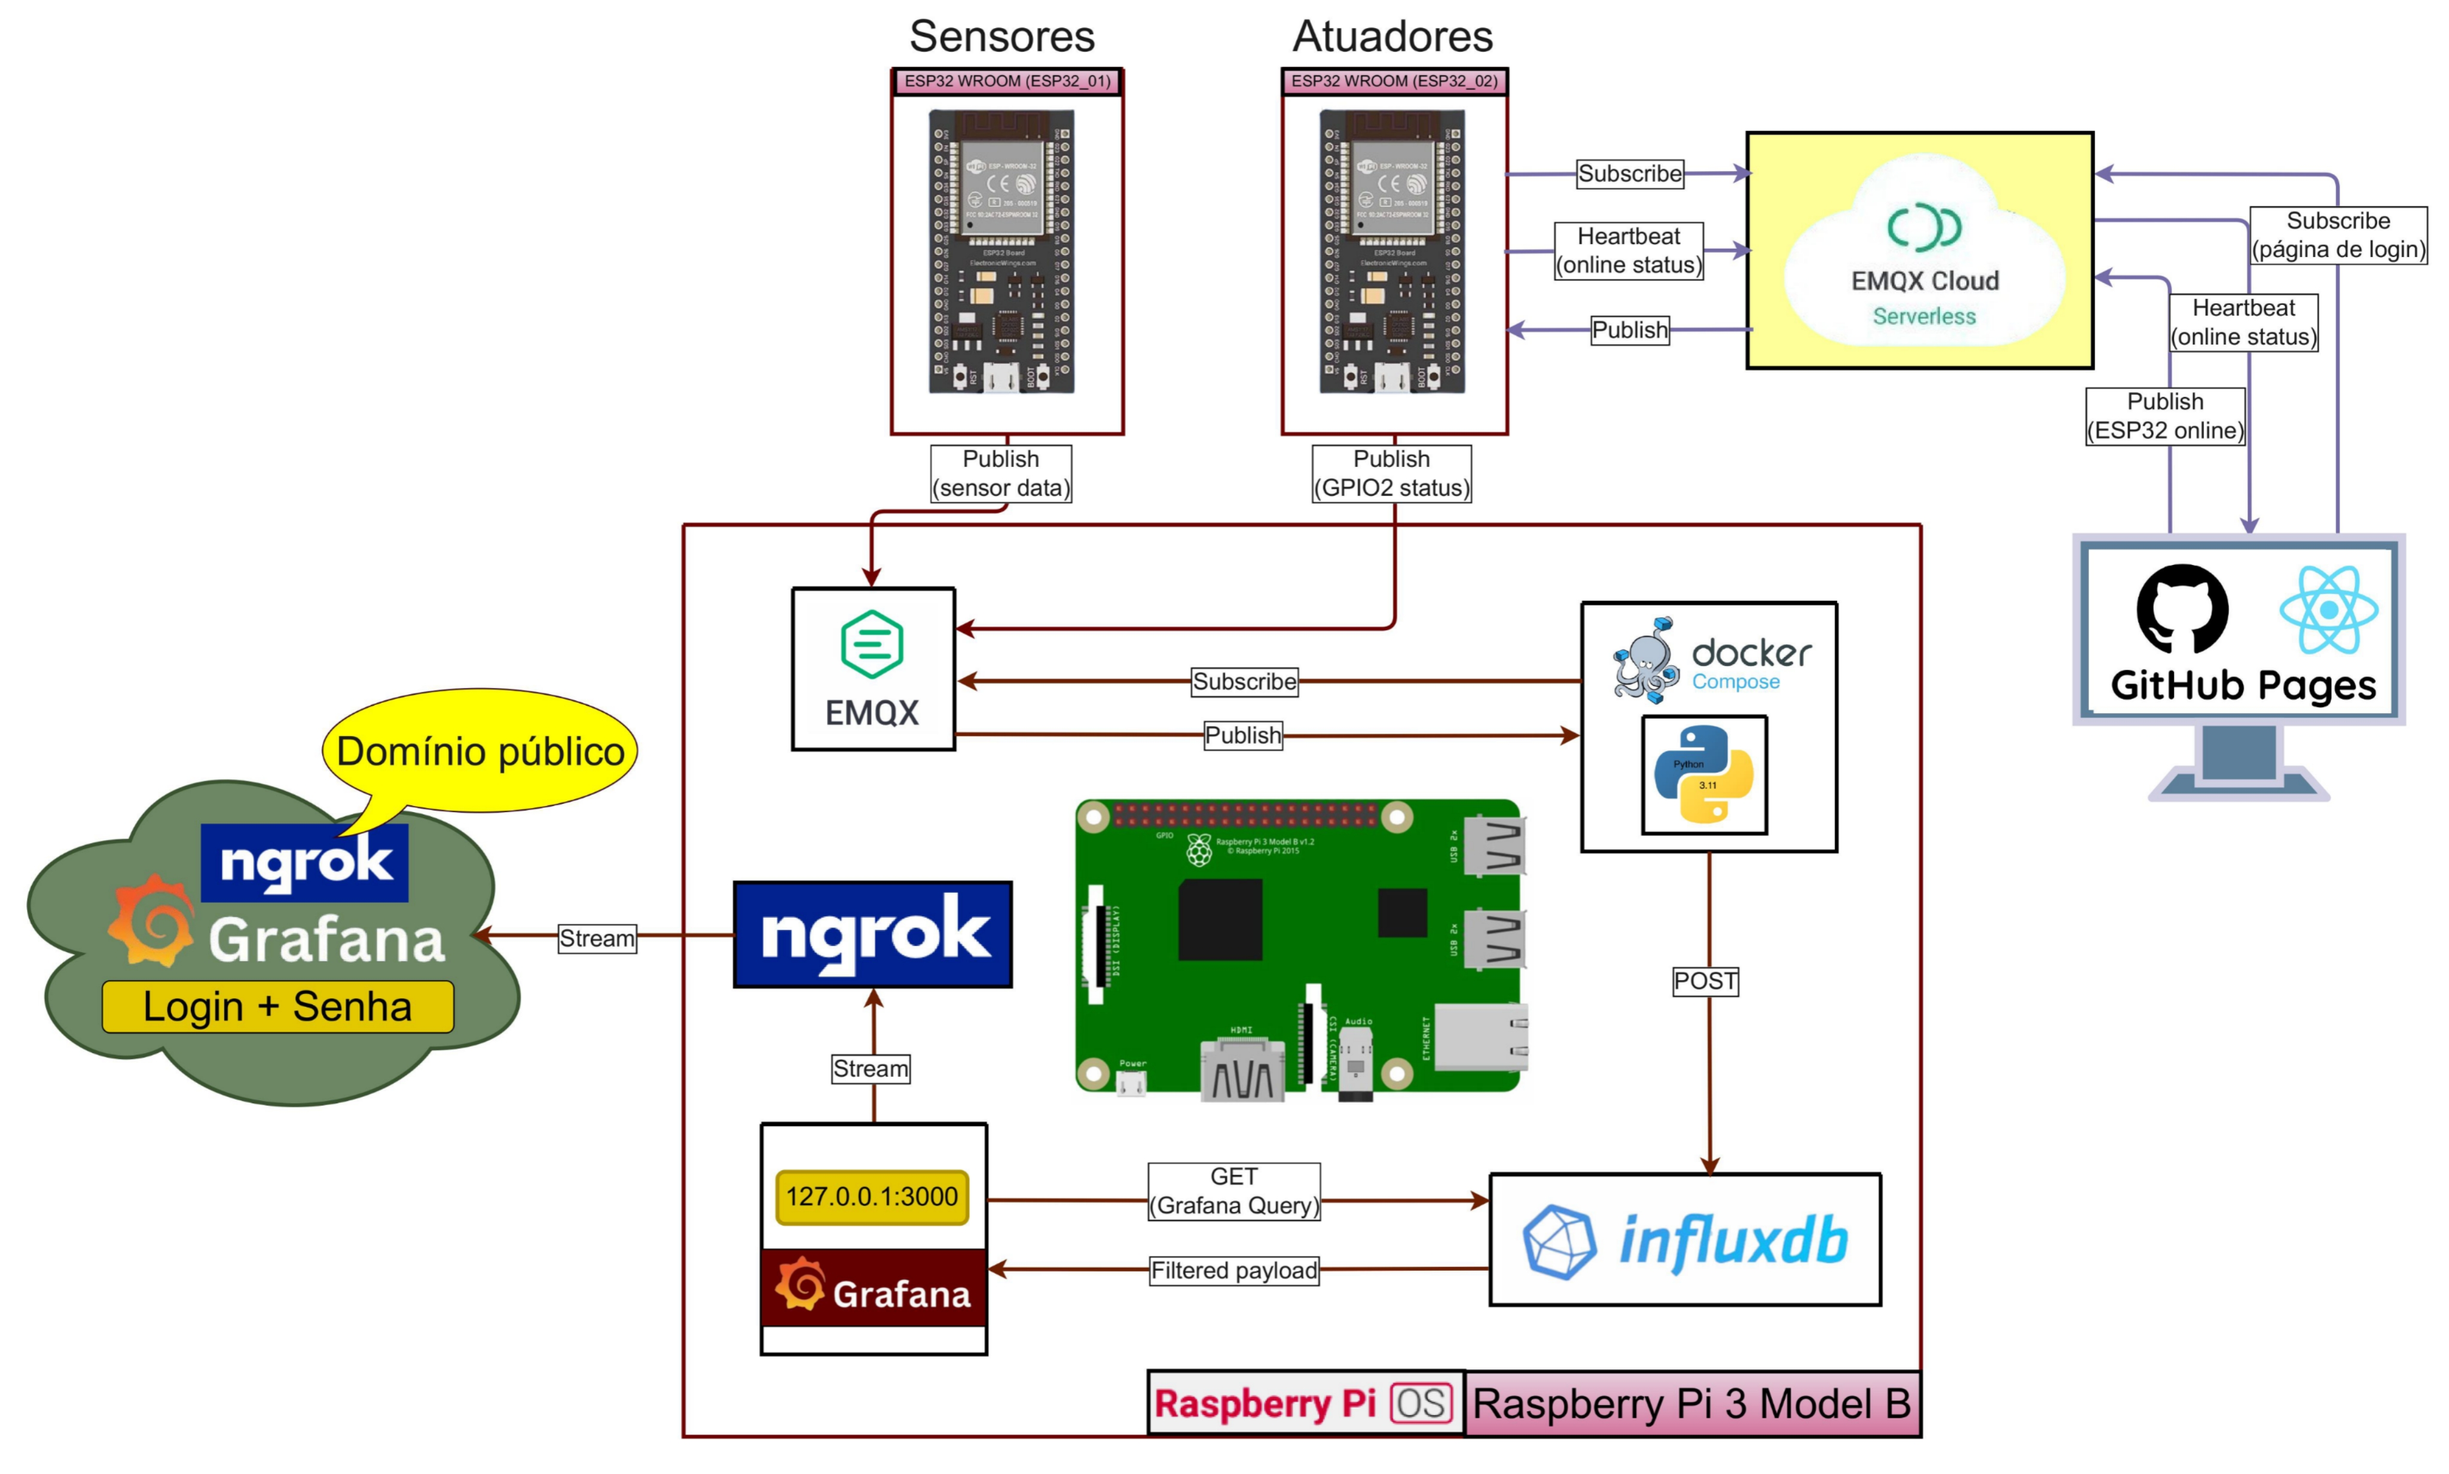
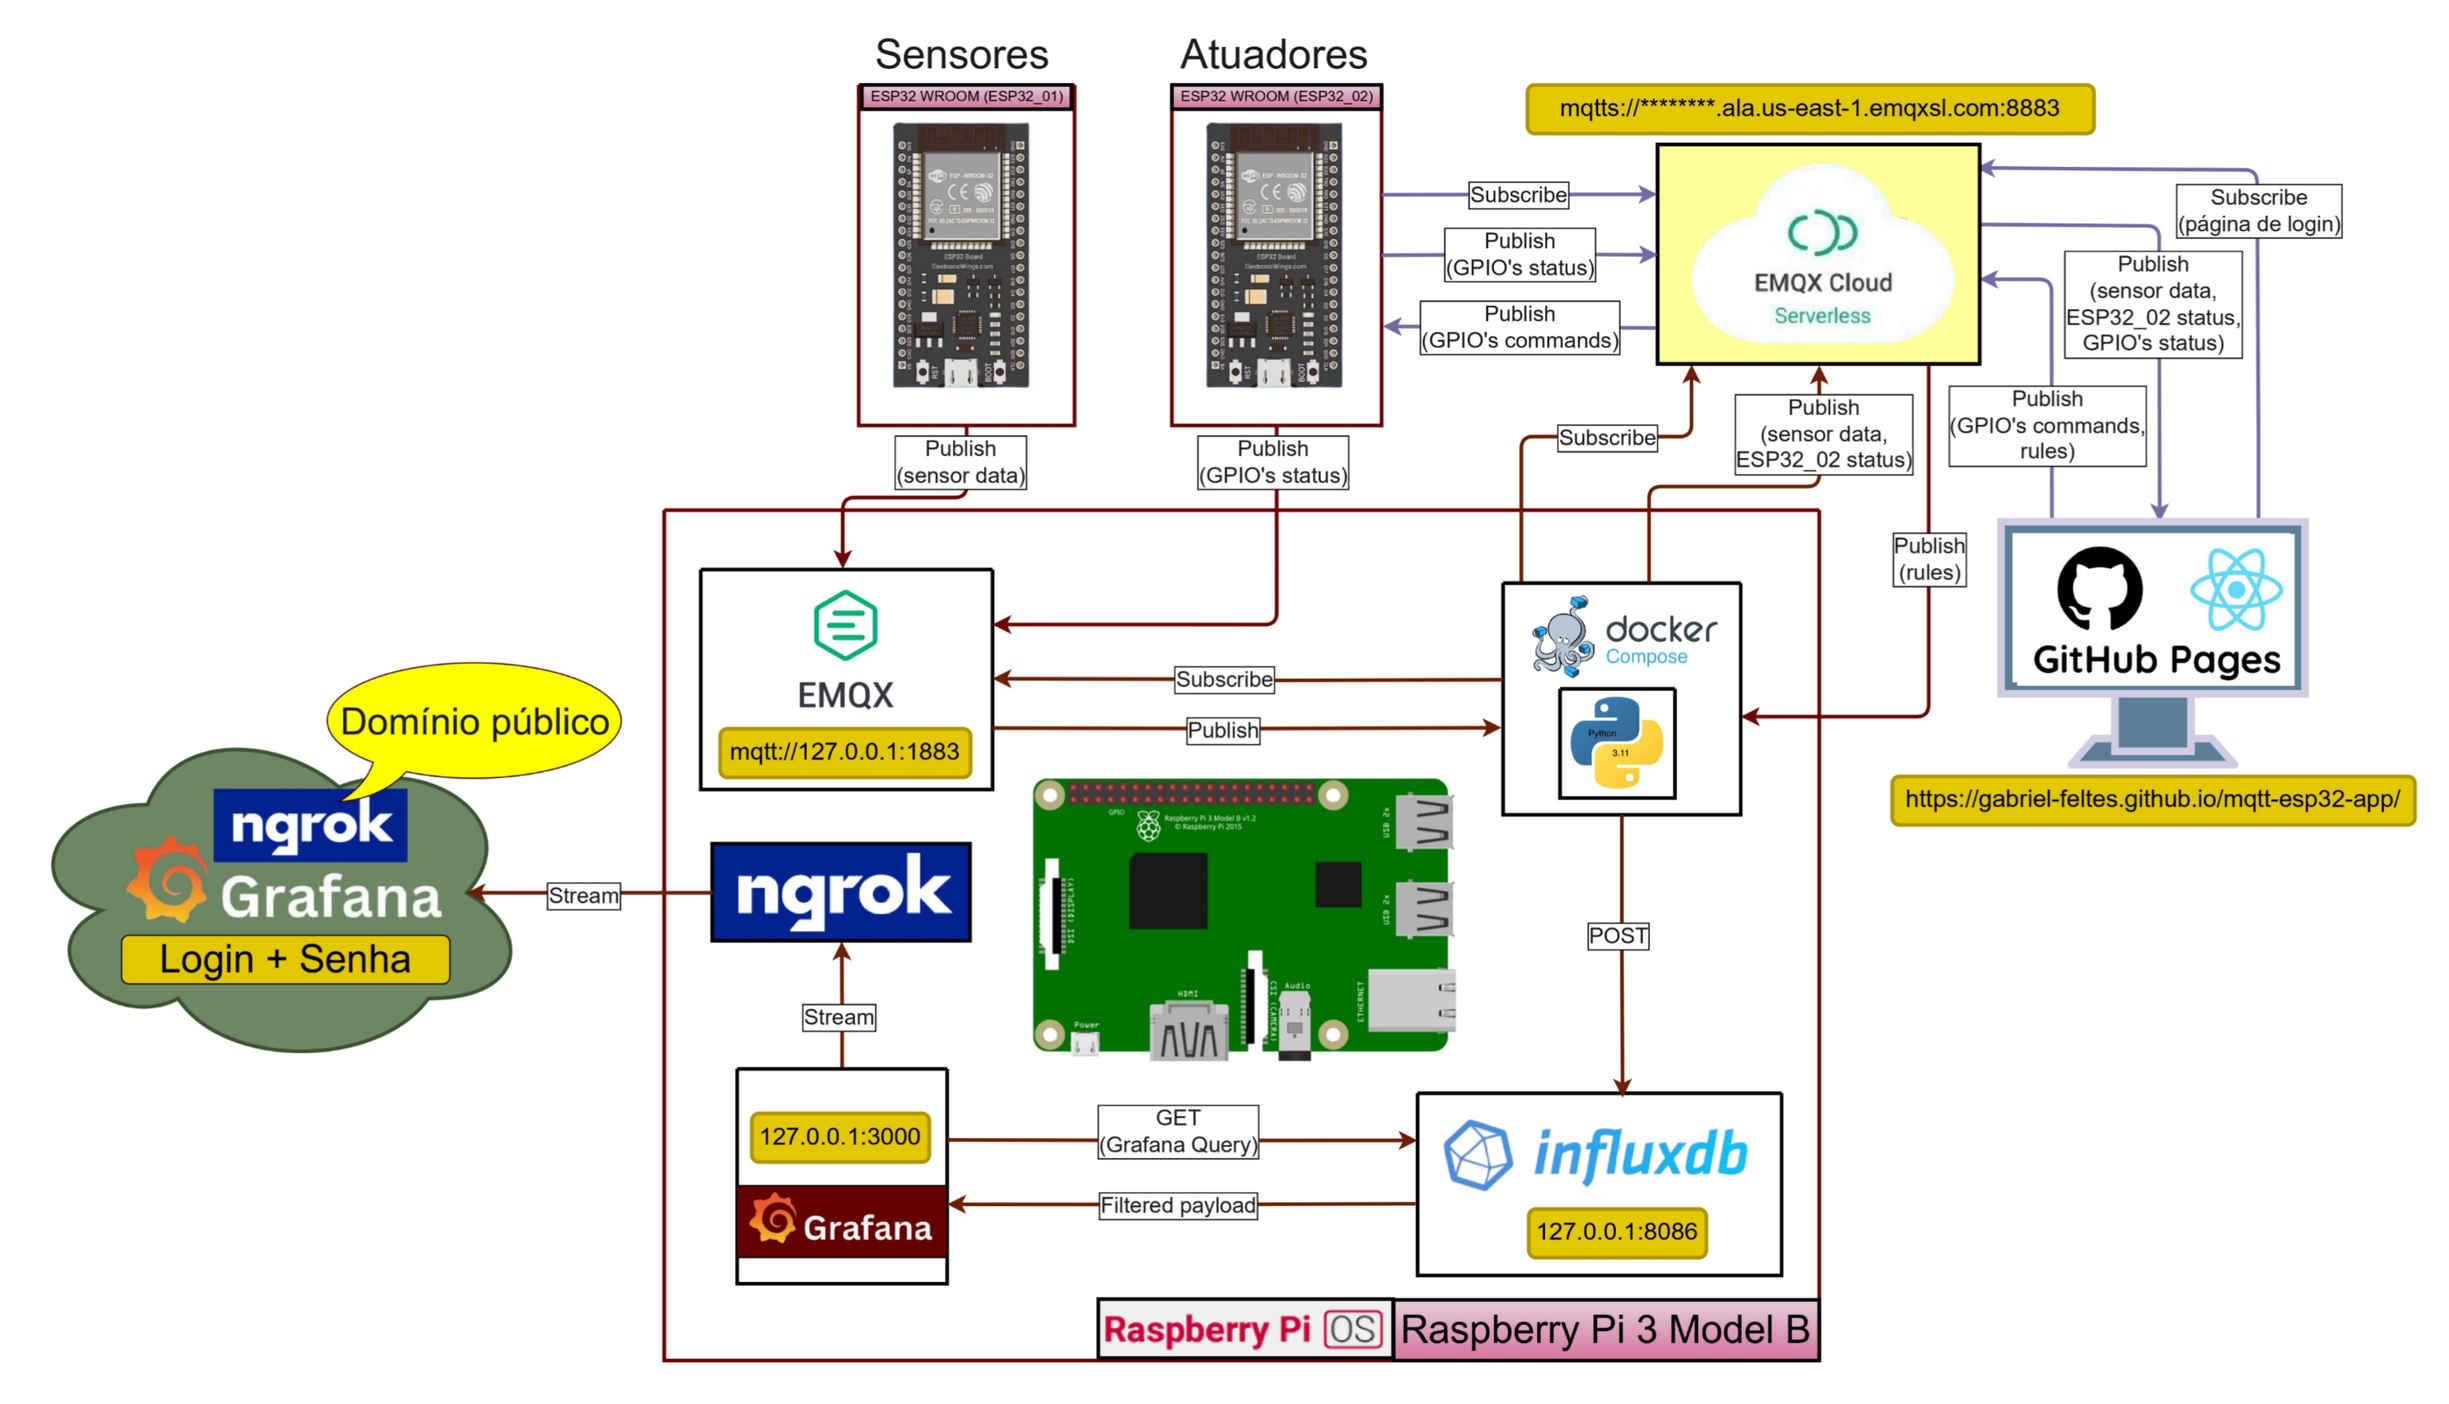
update

Changed region(s): [[0.0, 0.0, 1.0, 0.9945], [0.6562, 0.6526, 0.7188, 0.6837]]

diff --git a/README.md b/README.md
@@ -1,53 +1,57 @@
 # Controle dos pinos GPIO do ESP32 via EMQX Cloud e Broker Local
 
-Este projeto demonstra como transferir o controle dos pinos GPIO de um ESP32 WROOM para um cliente MQTT na nuvem, utilizando o EMQX Cloud. Dessa forma, é possível acionar ou monitorar os pinos remotamente, além de criar regras automáticas baseadas nos dados dos sensores conectados ao ESP32. As regras podem ser configuradas diretamente no EMQX Cloud, permitindo ações autônomas sem a necessidade de intervenção manual, tornando o sistema mais flexível e inteligente.
+Este projeto demonstra como transferir o controle dos pinos GPIO de um `ESP32-WROOM-32D` para um cliente `MQTT` na nuvem, utilizando o `EMQX Cloud`. Dessa forma, é possível acionar ou monitorar os pinos remotamente, além de criar regras automáticas baseadas nos dados dos sensores conectados ao ESP32. As regras podem ser configuradas diretamente no `EMQX Cloud`, permitindo ações autônomas sem a necessidade de intervenção manual, tornando o sistema mais flexível e inteligente.
 
 ## Introdução
-O ESP32 é um microcontrolador versátil e poderoso, amplamente utilizado em projetos de Internet das Coisas (IoT). Este projeto utiliza o EMQX Cloud como broker MQTT para facilitar a comunicação entre o ESP32 e outros dispositivos ou serviços na nuvem. Através do MQTT, é possível enviar comandos para controlar os pinos GPIO do ESP32, bem como receber dados de sensores conectados a ele. Decidiu-se utilizar um broker local em um `Raspberry OS` rodando sobre um `Rasoberry Pi 3 Model B` para monitorar o tráfego de mensagens MQTT e gravar os dados em um banco de dados, permitindo o registro histórico e a análise posterior.
+O ESP32 é um microcontrolador versátil e poderoso, amplamente utilizado em projetos de Internet das Coisas (IoT). Este projeto utiliza o `EMQX Cloud Serverless` como broker MQTT para facilitar a comunicação entre o ESP32 e outros dispositivos ou serviços na nuvem. Através do `MQTT`, é possível enviar comandos para controlar os pinos GPIO do ESP32, bem como receber dados de sensores conectados a ele. Decidiu-se utilizar um broker local em um `Raspberry OS` rodando sobre um `Rasoberry Pi 3 Model B` para monitorar o tráfego de mensagens MQTT e gravar os dados em um banco de dados, permitindo o registro histórico e a análise posterior.
 
 > [!NOTE]
-> A pasta [`General_Purpose_IoT`](General_Purpose_IoT) contém o código-fonte para dispositivos embarcados (ESP32 WROOM e Raspberry Pi 3 Model B) que utilizam MQTT para comunicação com brokers EMQX, na nuvem ou localmente. Os códigos estão organizados por dispositivo, simplificando a navegação. Veja a topologia de rede do projeto, criada no [**`draw.io`**](https://app.diagrams.net/):  
+> A pasta [`General_Purpose_IoT`](General_Purpose_IoT) contém o código-fonte para dispositivos embarcados (`ESP32-WROOM-32` e `Raspberry Pi 3 Model B`) que utilizam `MQTT` para comunicação com `brokers EMQX`, na nuvem ou localmente. Os códigos estão organizados por dispositivo, simplificando a navegação. Veja a topologia de rede do projeto, criada no [**`draw.io`**](https://app.diagrams.net/):  
 > ![Topologia de Rede](images/topologia-rede.jpg)
+> Observe a protoboard do componente **`ESP32_01`**, que contém o `LED RGB`, o sensor `DHT11`, o sensor `MQ135`, o sensor `BMP280` e o sensor de luminosidade, todos conectados ao `ESP32-WROOM-32D`. O `LED RGB` é utilizado para debugar os limites de luminosidade.
+> ![Protoboard](images/ESP32_01.png)
+> Observe o esquema elétrico do componente **`ESP32_01`**, gerado pelo [**`Fritzing`**](https://fritzing.org/home/):
+> ![Esquema Elétrico](images/ESP32_01_schematic.png)
 
 ## Pré-requisitos
 
 - **Conta no EMQX Cloud**: Para utilizar o broker MQTT na nuvem (tutorial completo em [General_Purpose_IoT/README.md](/General_Purpose_IoT/README.md))
 - **Hardware**:
-  - **ESP32 WROOM (2 unidades)**: Microcontrolador com suporte a Wi-Fi e Bluetooth
-  - **Raspberry Pi 3 Model B**: Para rodar o broker MQTT local e monitorar o tráfego de mensagens
-  - **Sensor de Temperatura e Umidade DHT11**: Para coletar dados ambientais
-  - **LED**: Para demonstração de controle via MQTT
+  - **`ESP32-WROOM-32D (2 unidades)`**: Microcontrolador com suporte a Wi-Fi e Bluetooth
+  - **`Raspberry Pi 3 Model B`**: Para rodar o broker MQTT local e monitorar o tráfego de mensagens
+  - **`Sensor de Temperatura e Umidade DHT11`**: Para coletar dados ambientais
+  - **`LED`**: Para demonstração de controle via MQTT
   - **Sensor de Gás MQ135**: Para detecção de CO2 com base nos parâmetros para esse tipo de gás
-  - **Sensor de Pressão BMP280**: Para medir pressão atmosférica e temperatura
-  - **Sensor de luminosidade**: Para medir a intensidade da luz ambiente
-  - **LED RGB**: Para debugar os limites de luminosidade
-  - **Resistores de 10k**: Para o sensor DHT11 e o sensor de luminosidade
-  - **Resistor de 220 ohms**: Para o LED que debuga o controle remoto doS pinos GPIO
+  - **`Sensor de Pressão BMP280`**: Para medir pressão atmosférica e temperatura
+  - **`Sensor de luminosidade`**: Para medir a intensidade da luz ambiente
+  - **`LED RGB`**: Para debugar os limites de luminosidade
+  - **`Resistores de 10k`**: Para o sensor DHT11 e o sensor de luminosidade
+  - **`Resistor de 220 ohms`**: Para o LED que debuga o controle remoto dos pinos GPIO
 - **Software**:
-  - **ESP-IDF**: Ambiente de desenvolvimento para ESP32
-  - **EMQX Cloud**: Broker MQTT na nuvem
-  - **EMQX Broker Local**: Broker MQTT local rodando no Raspberry Pi
-  - **Banco de Dados InfluxDB**: Para armazenar os dados coletados dos sensores
-  - **Grafana**: Para visualização dos dados armazenados no InfluxDB
-  - **ReactJS**: Para criar uma interface web que permite o controle dos pinos GPIO do ESP32 e a visualização em tempo real dos dados dos sensores
-  - **Python**: Para o script que coleta dados do broker local e os armazena no InfluxDB, mandando também os dados dos sensores para a interface web em tempo real
-  - **Docker com Docker Compose**: Deixar o script Python mais fácil de ser executado, sem a necessidade de instalar as dependências manualmente e mantendo a execução do script em segundo plano
-  - **Ngrok**: Para expor a interface do Grafana para a internet, permitindo o acesso remoto e a visualização dos dados em tempo real
+  - **`ESP-IDF`**: Ambiente de desenvolvimento para ESP32
+  - **`EMQX Cloud Serverless`**: Broker MQTT na nuvem
+  - **`EMQX Broker Local`**: Broker MQTT local rodando no Raspberry Pi
+  - **`Banco de Dados InfluxDB`**: Para armazenar os dados coletados dos sensores
+  - **`Grafana`**: Para visualização dos dados armazenados no InfluxDB
+  - **`ReactJS`**: Para criar uma interface web que permite o controle dos pinos GPIO do ESP32 e a visualização em tempo real dos dados dos sensores
+  - **`Python`**: Para o script que coleta dados do broker local e os armazena no InfluxDB, mandando também os dados dos sensores para a interface web em tempo real
+  - **`Docker com Docker Compose`**: Deixar o script Python mais fácil de ser executado, sem a necessidade de instalar as dependências manualmente e mantendo a execução do script em segundo plano
+  - **`Ngrok`**: Para expor a interface do Grafana para a internet, permitindo o acesso remoto e a visualização dos dados em tempo real
 
 ## Requisitos Funcionais
 
-- **Controle Remoto dos Pinos GPIO**: Permitir o controle remoto dos pinos GPIO do ESP32 via MQTT, utilizando o EMQX Cloud.
-- **Monitoramento de Sensores**: Coletar dados de sensores conectados ao ESP32 e enviar esses dados para o broker MQTT.
-- **Regras Automáticas**: Configurar regras automáticas no EMQX Cloud para acionar ou monitorar os pinos GPIO com base nos dados dos sensores.
-- **Interface Web**: Criar uma interface web para visualizar os dados dos sensores em tempo real e controlar os pinos GPIO do ESP32.
-- **Armazenamento de Dados**: Armazenar os dados coletados dos sensores em um banco de dados InfluxDB para análise posterior.
-- **Visualização de Dados**: Utilizar o Grafana para visualizar os dados armazenados no InfluxDB, permitindo a criação de dashboards personalizados.
-- **Exposição da Interface Web**: Utilizar o Ngrok para expor a interface do Grafana para a internet, permitindo o acesso remoto e a visualização dos dados em tempo real.
+- **`Controle Remoto dos Pinos GPIO`**: Permitir o controle remoto dos pinos GPIO do ESP32 via MQTT, utilizando o EMQX Cloud.
+- **`Monitoramento de Sensores`**: Coletar dados de sensores conectados ao ESP32 e enviar esses dados para o broker MQTT.
+- **`Regras Automáticas`**: Configurar regras automáticas no EMQX Cloud para acionar ou monitorar os pinos GPIO com base nos dados dos sensores.
+- **`Interface Web`**: Criar uma interface web para visualizar os dados dos sensores em tempo real e controlar os pinos GPIO do ESP32.
+- **`Armazenamento de Dados`**: Armazenar os dados coletados dos sensores em um banco de dados InfluxDB para análise posterior.
+- **`Visualização de Dados`**: Utilizar o Grafana para visualizar os dados armazenados no InfluxDB, permitindo a criação de dashboards personalizados.
+- **`Exposição da Interface Web`**: Utilizar o Ngrok para expor a interface do Grafana para a internet, permitindo o acesso remoto e a visualização dos dados em tempo real.
 
 ## Requisitos Não Funcionais
 
-- **Segurança**: Implementar medidas de segurança para proteger a comunicação entre o ESP32, o broker MQTT e a interface web.
-- **Escalabilidade**: O sistema deve ser escalável, permitindo a adição de novos sensores e atuadores sem a necessidade de grandes modificações no código existente.
-- **Manutenibilidade**: O código deve ser modular e bem documentado, facilitando a manutenção e futuras expansões do sistema.
-- **Desempenho**: O sistema deve ser capaz de lidar com múltiplas conexões simultâneas e responder rapidamente aos comandos enviados via MQTT.
-- **Compatibilidade**: O sistema deve ser compatível com diferentes versões do ESP-IDF e bibliotecas utilizadas, garantindo que possa ser executado em diferentes ambientes de desenvolvimento.
+- **`Segurança`**: Implementar medidas de segurança para proteger a comunicação entre o ESP32, o broker MQTT e a interface web.
+- **`Escalabilidade`**: O sistema deve ser escalável, permitindo a adição de novos sensores e atuadores sem a necessidade de grandes modificações no código existente.
+- **`Manutenibilidade`**: O código deve ser modular e bem documentado, facilitando a manutenção e futuras expansões do sistema.
+- **`Desempenho`**: O sistema deve ser capaz de lidar com múltiplas conexões simultâneas e responder rapidamente aos comandos enviados via MQTT.
+- **`Compatibilidade`**: O sistema deve ser compatível com diferentes versões do ESP-IDF e bibliotecas utilizadas, garantindo que possa ser executado em diferentes ambientes de desenvolvimento.
